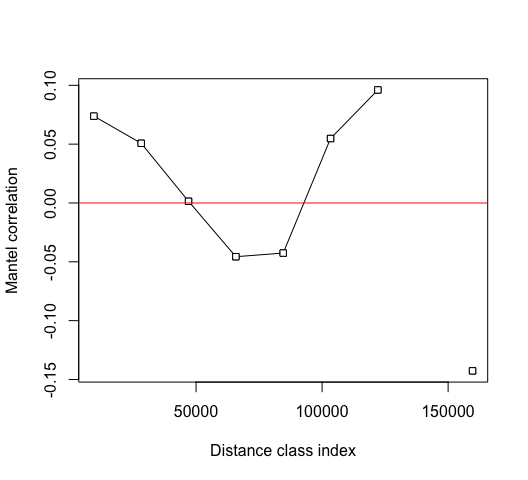
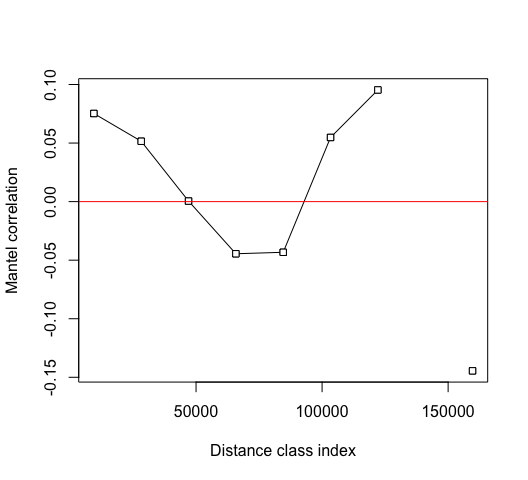
WIP, spatial correlations

diff --git a/spatial_correlation.md b/spatial_correlation.md
@@ -2,7 +2,7 @@ Testing for autocorrelation among sites
 ================
 Beau Larkin
 
-Last updated: 11 March, 2023
+Last updated: 12 March, 2023
 
 - <a href="#description" id="toc-description">Description</a>
 - <a href="#packages-and-libraries"
@@ -162,12 +162,12 @@ man_1 <-
     ## Call:
     ## mantel(xdis = dist_spe, ydis = dist_geo, method = "spearman",      permutations = 9999, na.rm = TRUE) 
     ## 
-    ## Mantel statistic r: 0.1073 
-    ##       Significance: 0.0399 
+    ## Mantel statistic r: 0.1087 
+    ##       Significance: 0.0374 
     ## 
     ## Upper quantiles of permutations (null model):
     ##    90%    95%  97.5%    99% 
-    ## 0.0703 0.0982 0.1244 0.1578 
+    ## 0.0693 0.0965 0.1238 0.1614 
     ## Permutation: free
     ## Number of permutations: 9999
 
@@ -193,16 +193,16 @@ print(man_1_cor)
     ## mantel.correlog(D.eco = dist_spe, D.geo = dist_geo, n.class = 0,      cutoff = FALSE, r.type = "spearman", nperm = 9999, mult = "holm") 
     ## 
     ##         class.index      n.dist  Mantel.cor Pr(Mantel) Pr(corrected)
-    ## D.cl.1   9.4645e+03  1.2000e+02  7.3805e-02     0.1305        0.1305
-    ## D.cl.2   2.8242e+04  3.6000e+01  5.0729e-02     0.2589        0.2610
-    ## D.cl.3   4.7019e+04  4.0000e+00  1.4190e-03     0.5083        0.5178
-    ## D.cl.4   6.5796e+04  2.6000e+01 -4.5654e-02     0.2593        0.7767
-    ## D.cl.5   8.4574e+04  1.1200e+02 -4.2576e-02     0.2932        1.0000
-    ## D.cl.6   1.0335e+05  3.6000e+01  5.4781e-02     0.2093        1.0000
-    ## D.cl.7   1.2213e+05  4.8000e+01  9.6051e-02     0.1088        0.7616
+    ## D.cl.1   9.4645e+03  1.2000e+02  7.5248e-02     0.1231        0.1231
+    ## D.cl.2   2.8242e+04  3.6000e+01  5.1539e-02     0.2498        0.2498
+    ## D.cl.3   4.7019e+04  4.0000e+00  4.7299e-04     0.5174        0.5174
+    ## D.cl.4   6.5796e+04  2.6000e+01 -4.4519e-02     0.2692        0.7494
+    ## D.cl.5   8.4574e+04  1.1200e+02 -4.3267e-02     0.2758        0.9992
+    ## D.cl.6   1.0335e+05  3.6000e+01  5.4781e-02     0.2019        1.0000
+    ## D.cl.7   1.2213e+05  4.8000e+01  9.5341e-02     0.1098        0.7686
     ## D.cl.8   1.4091e+05  0.0000e+00          NA         NA            NA
-    ## D.cl.9   1.5968e+05  9.0000e+01 -1.4267e-01     0.0408        0.3264
-    ## D.cl.10  1.7846e+05  1.2600e+02 -2.3105e-02     0.3998            NA
+    ## D.cl.9   1.5968e+05  9.0000e+01 -1.4450e-01     0.0402        0.3216
+    ## D.cl.10  1.7846e+05  1.2600e+02 -2.2633e-02     0.3876            NA
 
 ``` r
 plot(man_1_cor)
@@ -253,11 +253,11 @@ man_2 <-
     ## mantel(xdis = dist_spe_bm, ydis = dist_geo_bm, method = "spearman",      na.rm = TRUE) 
     ## 
     ## Mantel statistic r: -0.3779 
-    ##       Significance: 0.957 
+    ##       Significance: 0.963 
     ## 
     ## Upper quantiles of permutations (null model):
     ##   90%   95% 97.5%   99% 
-    ## 0.291 0.366 0.451 0.594 
+    ## 0.316 0.409 0.476 0.588 
     ## Permutation: free
     ## Number of permutations: 5039
 
@@ -288,11 +288,11 @@ man_3
     ## mantel(xdis = dist_soil, ydis = dist_geo_bm, method = "spearman",      na.rm = TRUE) 
     ## 
     ## Mantel statistic r: 0.1052 
-    ##       Significance: 0.336 
+    ##       Significance: 0.314 
     ## 
     ## Upper quantiles of permutations (null model):
     ##   90%   95% 97.5%   99% 
-    ## 0.305 0.391 0.490 0.583 
+    ## 0.299 0.379 0.459 0.510 
     ## Permutation: free
     ## Number of permutations: 5039
 
